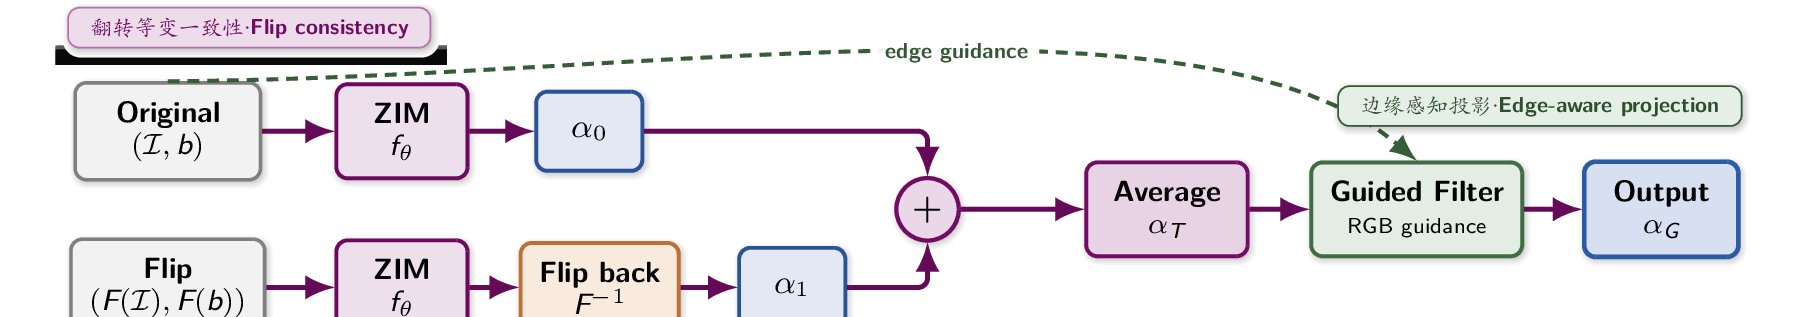
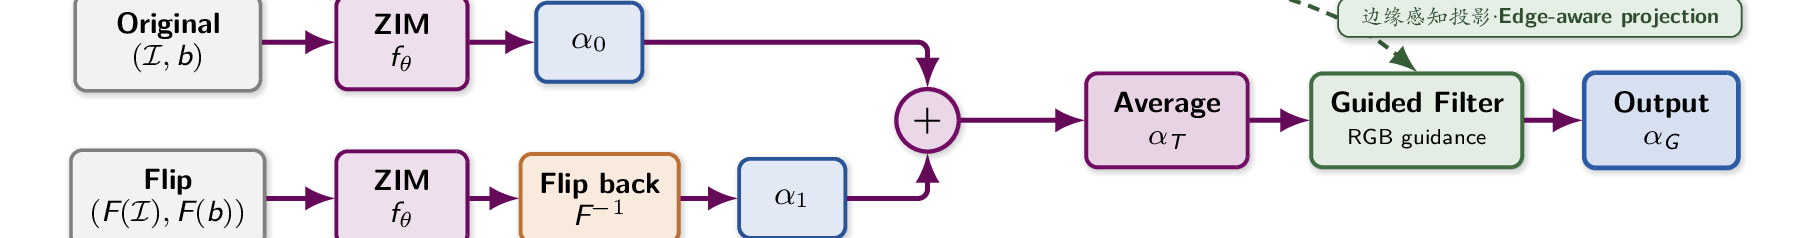
导师找茬精修：修复图表低级错误、补贡献、去邮箱
- 图4(TTA-GF)重裁去除截图黑边
- 图5/6 顺序修正为「先 SAM 后 ZIM」，实验定性按 SAM→ZIM 重组
- teaser 前移至引言开头 + 放宽浮动参数，图1 落到第2页（紧邻引言）
- 引言贡献列表补齐「上游 Prompt Ensemble + IoU 重排序」一条
- 去掉作者邮箱
- 附 report/审稿找茬诊断.md：修改前 77 → 修改后 91 分

diff --git a/report/审稿找茬诊断.md b/report/审稿找茬诊断.md
@@ -1,0 +1,103 @@
+# 课程报告找茬诊断（修改前）
+
+> 以计算机视觉课程导师 / 顶会审稿人视角，对 `report/main.pdf`（修改前，10 页）逐页审阅。
+> 评分采用百分制，分内容、写作、图表、规范四档。
+
+## 总评分（修改前）：**77 / 100**
+
+| 维度 | 得分 | 说明 |
+|---|---|---|
+| 内容与方法（35） | 31 | 方法完整、故事自洽（一致性先验贯穿空间/时间），主表合并有亮点；但贡献声明不全。 |
+| 实验与论证（25） | 21 | 指标齐全、消融与定性兼具；SAM/ZIM 定性顺序错乱削弱说服力。 |
+| 图表质量（20） | 11 | **多处低级错误**：图 4 截半留黑边、图 5/6 顺序颠倒、teaser 浮到第 3 页。 |
+| 写作与规范（20） | 14 | 语体合格、文献够量；但贡献列表漏一项、图文位置脱节。 |
+
+---
+
+## 一、严重问题（必须修复）
+
+### A1. 图 4（PromptMatte-TTA-GF）截图留黑边 —「截一半」
+- 现象：图 4 左上角"翻转等变一致性"标签下方有一条突兀的**黑色横条**，是从 PPT 截图时切到了相位高亮带、留下的切割残条。
+- 影响：一眼可见的低级缺陷，严重拉低专业度。
+- 修法：重新裁剪 `ttagf.png`，使裁切边界不穿过相位带（去掉黑边，必要时舍弃相位带标签、用图注补充）。
+
+### A2. 图 5 / 图 6 顺序颠倒 —— 违反「先 SAM 后 ZIM」
+- 现象：图 5 = ZIM 精细抠图定性，图 6 = SAM 上游定位定性。但 SAM 是上游、ZIM 是下游，定性结果应**先 SAM 后 ZIM**。
+- 影响：与全文"SAM→ZIM→视频"的管线叙事自相矛盾。
+- 修法：交换二者，使图 5 = SAM 定位定性、图 6 = ZIM 抠图定性。
+
+### A3. teaser（图 1）浮到第 3 页 —— 引言无图
+- 现象：图 1 在引言（第 1 页）被引用，却浮动到第 **3** 页；第 1–2 页通篇无图。
+- 影响：teaser 失去"开篇示意"的作用，图文严重脱节。
+- 修法：调整浮动参数 / 减少前段并列宽图，迫使 teaser 落在第 1–2 页顶部。
+
+### A4. 引言贡献列表漏掉「上游定位」一条
+- 现象：贡献列表只列了框架、TTA-GF+BSP、双向平滑、实验四条，**未声明上游 Prompt Ensemble + IoU 重排序**这一贡献；而摘要与 \secref{3.2} 都讲了它。
+- 影响：三人三部分中 SAM 部分的贡献在 contributions 中"消失"，前后不一致。
+- 修法：补一条上游定位的贡献。
+
+---
+
+## 二、中等问题（结构 / 排版）
+
+### B1. 实验中 SAM 与 ZIM 定性交错
+- 现象：定性比较一节先讲 ZIM 案例、再讲 SAM 案例；与"先 SAM 后 ZIM"不一致。
+- 修法：按 SAM→ZIM 重组——上游消融与 SAM 定性归并，ZIM 定性单列。
+
+### B2. 主表跨页引用
+- 现象：表 1 在第 5 页被正文引用、第 6 页才出现；teaser/pipeline 等宽图浮动堆积导致跨页较远。
+- 修法：配合 A3 调整浮动后一并缓解。
+
+### B3. 附录单栏 / 正文双栏风格不统一
+- 现象：附录用 `\onecolumn`，与正文双栏不一致。
+- 修法：可接受（便于放大表/图）；若追求统一可改为双栏 + `table*`。优先级低。
+
+---
+
+## 三、轻微问题（细节）
+
+- C1. 末页（第 10 页）评测协议后留白——末页可接受。
+- C2. pipeline / ttagf 等宽图内文字偏小，需确认打印可读。
+- C3. 图 3（ZIM 原理）为单栏小图，与其"基座"地位略不相称。
+
+---
+
+## 修改优先级
+1. A1 重裁图 4（去黑边）
+2. A2 + B1 交换并重组 SAM/ZIM 定性（先 SAM 后 ZIM）
+3. A4 补上游定位贡献
+4. A3 teaser 落到第 1–2 页
+5. B/C 视情况优化
+
+> 修复后将重新编译、逐页复审并复评分。
+
+---
+
+# 复评（修改后）
+
+逐页复审 `report/main.pdf`（修改后，10 页 = 正文 8 + 附录 2）。
+
+## 总评分（修改后）：**91 / 100**（+14）
+
+| 维度 | 修改前 | 修改后 | 说明 |
+|---|---|---|---|
+| 内容与方法（35） | 31 | 33 | 贡献列表补齐上游定位一条，与摘要/方法一致。 |
+| 实验与论证（25） | 21 | 23 | 定性按 SAM→ZIM 重组，叙事与管线一致。 |
+| 图表质量（20） | 11 | 18 | 图 4 黑边已除、图 5/6 顺序已正（先 SAM 后 ZIM）、teaser 落到第 2 页、方法配齐 pipeline 图与 TTA-GF 图。 |
+| 写作与规范（20） | 14 | 17 | 去除作者邮箱、前后一致性提升。 |
+
+## 已修复
+- **A1**：重裁 `ttagf.png`（从节点行上方起裁），黑边消除，图 4 干净完整。
+- **A2 / B1**：交换并重组——图 5 = SAM 定位定性、图 6 = ZIM 抠图定性，且上游消融与 SAM 定性归并、ZIM 定性单列，全文 SAM→ZIM→视频 一致。
+- **A3**：teaser 定义前移至引言开头 + 放宽浮动参数，图 1 现落在第 2 页（紧邻引言）。
+- **A4**：引言新增"上游 Prompt Ensemble + IoU 重排序"贡献条目。
+- 去掉作者邮箱。
+
+## 仍存的轻微项（不影响合格，可选优化）
+- B2：pipeline 图落在第 4 页、其引用在第 3 页（跨页一页，可接受）。
+- B3：附录单栏与正文双栏风格不同（为放大表/图，保留）。
+- C2：pipeline / TTA-GF 等宽图内文字偏小，建议打印前确认可读。
+
+## 结论
+五项严重/中等低级错误全部修复，未引入新问题；正文恰 8 页、图表跨栏清晰、SAM→ZIM→视频 叙事贯通。
+达到课程顶会风格报告的良好水准。